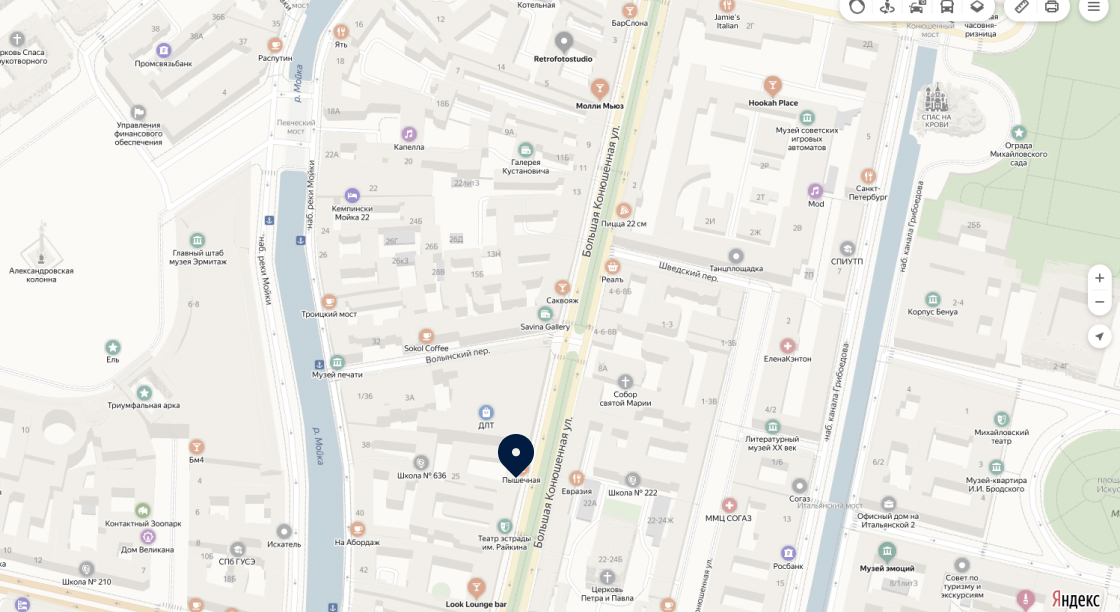
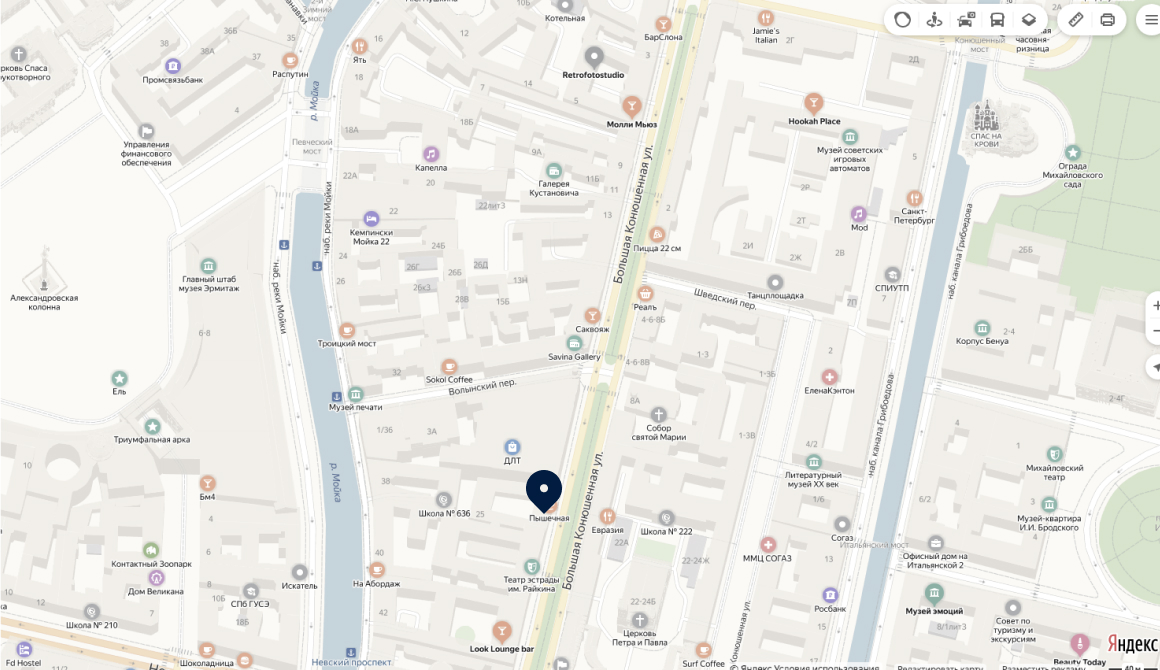
стили блока контактов для трех версий

diff --git a/source/index.html b/source/index.html
@@ -366,20 +366,22 @@
       <section class="contacts">
         <div class="container">
           <h2 class="visually-hidden">Наши контакты</h2>
-          <div class="contacts__box contacts__box--map">
-            <div class="contacts__map">
-              <picture>
-                <source type="image/webp" srcset="img/content/map.webp 1x, img/content/map@2x.webp 2x">
-                <img class="contacts__map-img" src="img/content/map.jpg" srcset="img/content/map@2x.jpg 2x" width="560" height="306" alt="Адрес на карте г. Санкт Петербург, ул. Большая Конюшенная, 19/8">
-              </picture>
+          <div class="contacts__wrapper">
+            <div class="contacts__box contacts__box--map">
+              <div class="contacts__map">
+                <picture>
+                  <source type="image/webp" srcset="img/content/map.webp 1x, img/content/map@2x.webp 2x">
+                  <img class="contacts__map-img" src="img/content/map.jpg" srcset="img/content/map@2x.jpg 2x" width="580" height="335" alt="Адрес на карте г. Санкт Петербург, ул. Большая Конюшенная, 19/8">
+                </picture>
 
-              <iframe class="contacts__map-frame" src="https://www.google.com/maps/embed?pb=!1m18!1m12!1m3!1d1998.6036253003258!2d30.32085871631924!3d59.93871916905392!2m3!1f0!2f0!3f0!3m2!1i1024!2i768!4f13.1!3m3!1m2!1s0x4696310fca145cc1%3A0x42b32648d8238007!2z0JHQvtC70YzRiNCw0Y8g0JrQvtC90Y7RiNC10L3QvdCw0Y8g0YPQuy4sIDE5LzgsINCh0LDQvdC60YIt0J_QtdGC0LXRgNCx0YPRgNCzLCAxOTExODY!5e0!3m2!1sru!2sru!4v1646465023625!5m2!1sru!2sru" width="560" height="306" style="border:0;" allowfullscreen="" loading="lazy" title="Адрес на карте г. Санкт-Петербург ул. Большая Конюшенная д. 19/8"></iframe>
+                <iframe class="contacts__map-frame" src="https://www.google.com/maps/embed?pb=!1m18!1m12!1m3!1d1998.6036253003258!2d30.32085871631924!3d59.93871916905392!2m3!1f0!2f0!3f0!3m2!1i1024!2i768!4f13.1!3m3!1m2!1s0x4696310fca145cc1%3A0x42b32648d8238007!2z0JHQvtC70YzRiNCw0Y8g0JrQvtC90Y7RiNC10L3QvdCw0Y8g0YPQuy4sIDE5LzgsINCh0LDQvdC60YIt0J_QtdGC0LXRgNCx0YPRgNCzLCAxOTExODY!5e0!3m2!1sru!2sru!4v1646465023625!5m2!1sru!2sru" width="560" height="306" style="border:0;" allowfullscreen="" loading="lazy" title="Адрес на карте г. Санкт-Петербург ул. Большая Конюшенная д. 19/8"></iframe>
+              </div>
             </div>
-          </div>
-          <div class="contacts__box contacts__box--address">
-            <p>У вас ещё остались вопросы или сомнения?<br>Приезжайте к нам в офис и мы вам все расскажем.</p>
-            <address class="contacts__address">г. Санкт Петербург, ул. Большая Конюшенная, 19/8</address>
-            <a class="contacts__tel" href="tel:88002000000">8-800-200-00-00</a>
+            <div class="contacts__box contacts__box--address">
+              <p>У вас ещё остались вопросы или сомнения? <br>Приезжайте к&nbsp;нам в&nbsp;офис и&nbsp;мы&nbsp;вам все расскажем.</p>
+              <address class="contacts__address">г.&nbsp;Санкт Петербург, ул.&nbsp;Большая&nbsp;Конюшенная, 19/8</address>
+              <a class="contacts__tel" href="tel:88002000000">8-800-200-00-00</a>
+            </div>
           </div>
         </div>
       </section>

diff --git a/source/sass/blocks/contacts.scss b/source/sass/blocks/contacts.scss
@@ -1,0 +1,169 @@
+.contacts {
+  margin-bottom: 120px;
+
+  p {
+    font-weight: 500;
+    font-size: 18px;
+    line-height: 27px;
+    margin-top: 0;
+    margin-bottom: 30px;
+  }
+
+  address {
+    position: relative;
+    font-style: normal;
+    font-size: 16px;
+    line-height: 24px;
+    padding-left: 28px;
+    margin-bottom: 30px;
+
+    &::before {
+      content: "";
+      position: absolute;
+      top: 0;
+      left: 0;
+      width: 18px;
+      height: 22px;
+      background-repeat: no-repeat;
+      background-position: center;
+      background-size: cover;
+      background-image: url("../img/svg/mark.svg");
+    }
+  }
+
+  a {
+    position: relative;
+    font-size: 16px;
+    line-height: 24px;
+    padding-left: 28px;
+    color: $color-tangaroa;
+
+    @media (hover: hover), screen and (min-width: 0\0) {
+      &:hover,
+      &:focus {
+        color: lighten($color-tangaroa, 30%);
+      }
+    }
+
+    &:active {
+      color: lighten($color-tangaroa, 30%);
+    }
+
+    &::before {
+      content: "";
+      position: absolute;
+      top: 0;
+      left: 0;
+      width: 18px;
+      height: 18px;
+      background-repeat: no-repeat;
+      background-position: center;
+      background-size: cover;
+      background-image: url("../img/svg/phone.svg");
+    }
+  }
+}
+
+.contacts__wrapper {
+  display: flex;
+  justify-content: space-between;
+  align-items: center;
+}
+
+.contacts__map {
+  width: 560px;
+  height: 306px;
+  position: relative;
+  overflow: hidden;
+
+  .contacts__map-img {
+    max-width: none;
+    position: absolute;
+    top: -18px;
+    left: -15px;
+  }
+
+  .contacts__map-frame {
+    position: absolute;
+    width: 560px;
+    height: 306px;
+    z-index: 2;
+  }
+}
+
+.contacts__box--address {
+  width: 500px;
+}
+
+@include vp-768 {
+  .contacts {
+    margin-bottom: 100px;
+
+    p {
+      margin-bottom: 24px;
+    }
+
+    br {
+      display: none;
+    }
+
+    address {
+      margin-bottom: 23px;
+
+      &::before {
+        top: 5px;
+        left: 0;
+      }
+    }
+  }
+
+  .contacts__map {
+    width: 324px;
+    height: 335px;
+
+    .contacts__map-img {
+      max-width: none;
+      top: 0;
+      left: -155px;
+    }
+
+    .contacts__map-frame {
+      width: 324px;
+      height: 335px;
+    }
+  }
+
+  .contacts__box--address {
+    width: 324px;
+  }
+}
+
+@include vp-320 {
+  .contacts {
+    margin-bottom: 60px;
+  }
+
+  .contacts__wrapper {
+    flex-direction: column-reverse;
+  }
+
+  .contacts__map {
+    width: 290px;
+    height: 316px;
+
+    .contacts__map-img {
+      top: -15px;
+      left: -150px;
+    }
+
+    .contacts__map-frame {
+      width: 290px;
+      height: 316px;
+    }
+  }
+
+  .contacts__box--address {
+    width: 290px;
+    margin-bottom: 40px;
+  }
+}

diff --git a/source/sass/blocks/booking.scss b/source/sass/blocks/booking.scss
@@ -96,7 +96,7 @@
     background-image: url("../img/back/back-booking-mobile.jpg");
     padding-top: 60px;
     padding-bottom: 65px;
-    margin-bottom: 65px;
+    margin-bottom: 60px;
 
     @include retina {
       background-image: url("../img/back/back-booking-mobile@2x.jpg");

diff --git a/source/sass/style.scss b/source/sass/style.scss
@@ -30,6 +30,7 @@
 @import "blocks/card";
 @import "blocks/booking";
 @import "blocks/form";
+@import "blocks/contacts";
 
 // ---------------------------------
 
